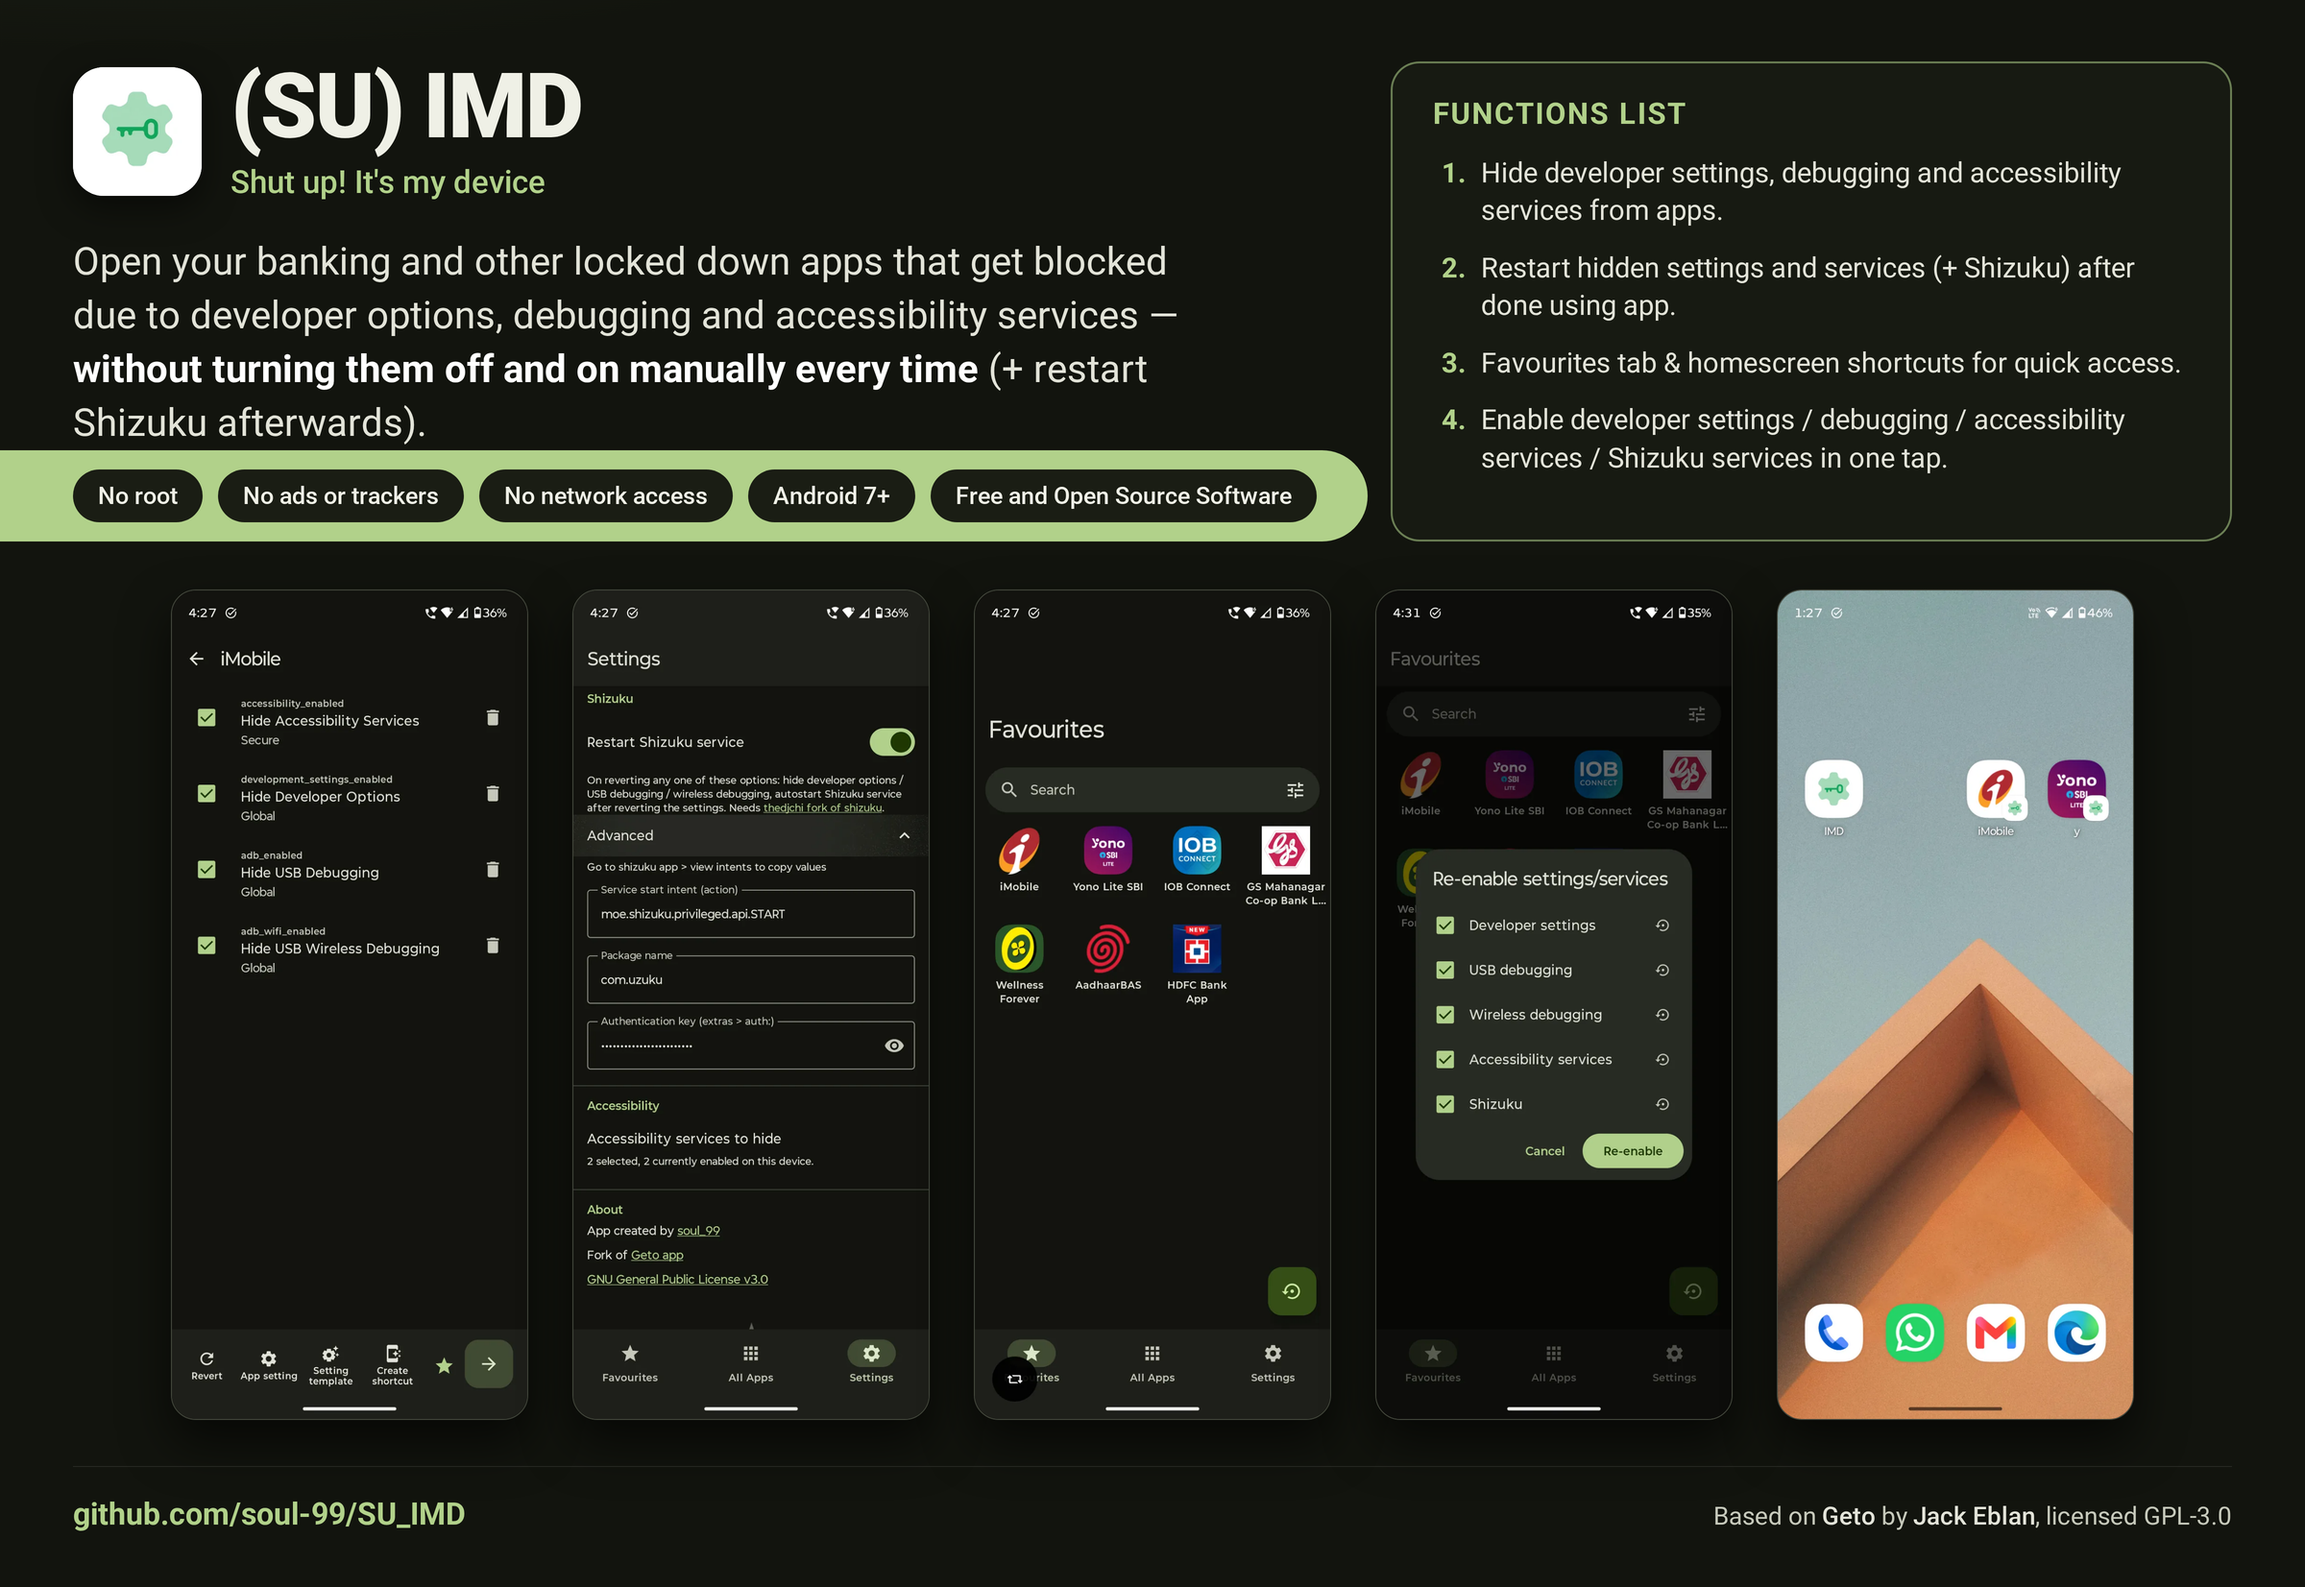
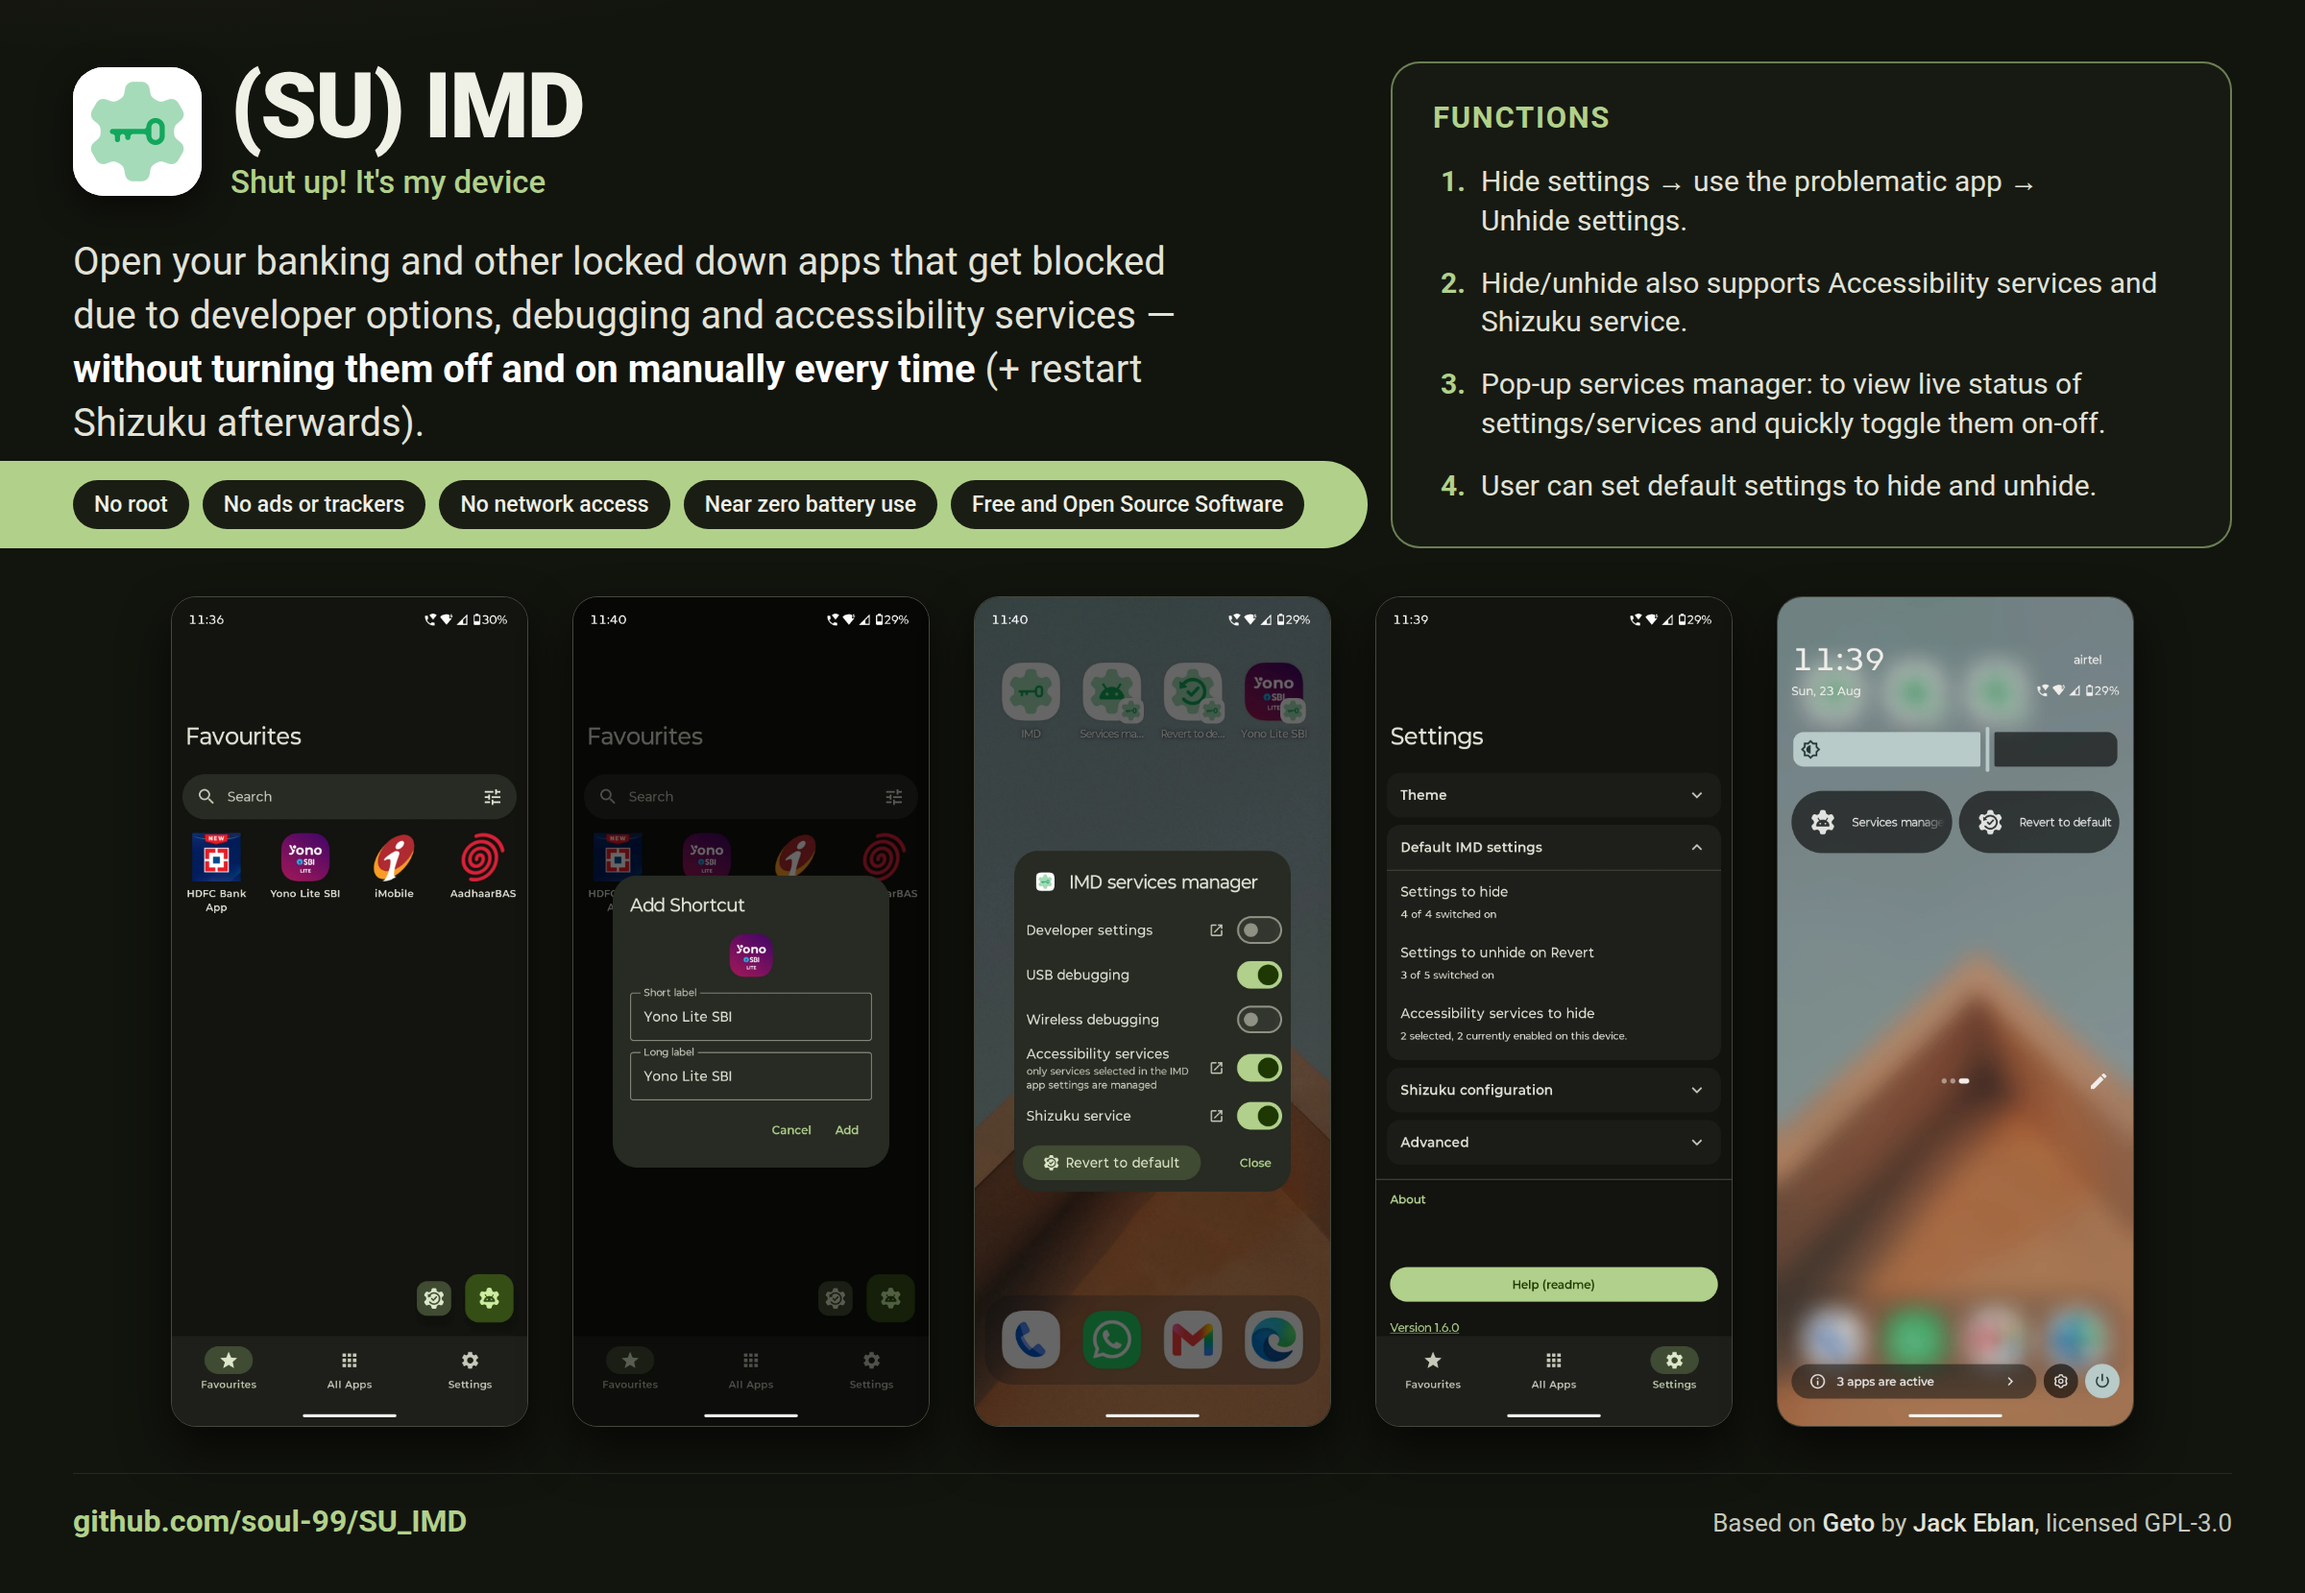
readme update

diff --git a/README.md b/README.md
@@ -8,6 +8,8 @@ Open banking and other locked-down apps without turning developer options, USB d
 
 Some apps refuse to run — or quietly disable parts of themselves — when they detect developer options, an ADB connection or an active accessibility service. The usual workaround is to go and switch those things off before opening the app and switch them back on afterwards, every time. IMD does that for you: pick an app, say which settings should change while it runs, and launch it from here. The settings are applied, the app opens, and an ongoing notification with a **Revert** action puts your device back the way it was.
 
+The **IMD services manager** is the other half of that: one dialog showing the live state of developer settings, USB debugging, wireless debugging, your managed accessibility services and the Shizuku service, with a switch on each and a **Revert to default** button at the bottom. It opens from a Quick Settings tile, a homescreen shortcut or the Favourites tab — without the app itself having to be open — which is what you reach for when a banking app has just refused to start and you do not want to go hunting through Android's settings to find out why.
+
 It is a fork of [Geto](https://github.com/JackEblan/Geto), rebuilt around the parts that did not survive real use — Shizuku dying with USB debugging, accessibility services that were listed but never actually stopped, and a quick re-enable settings button in app.
 
 - **Package:** `com.soul_99.suIMD` — installs alongside stock Geto, both can coexist
@@ -34,32 +36,17 @@ adb shell pm grant com.soul_99.suIMD android.permission.WRITE_SECURE_SETTINGS
 or, with no PC, tap **Use Shizuku** on the first-run screen and it runs that command for you. The screen also shows the command with a copy button and re-checks itself when you come back, so you never have to type it twice. The grant survives reboots but not a reinstall.
 
 <p>
-  <img src="docs/screenshots/poster.png" width="100%" alt="Poster: what IMD does, with screenshots of the app">
-</p>
-
-<p>
-  <img src="docs/screenshots/poster1.5.png" width="100%" alt="Poster: the v1.5 update, with screenshots of the services manager, Quick Settings tiles, Shizuku settings, Revert to default configuration and the setup help page">
+  <img src="docs/screenshots/poster.png" width="100%" alt="Poster: what IMD does, with screenshots of the Favourites tab, creating a shortcut, the IMD services manager, the settings screen and the Quick Settings tiles">
 </p>
 
 ## Functions
 
-### From the original Geto
-
-- Per-app profiles of Android **system**, **secure** and **global** settings.
-- A searchable, sortable list of every installed apps.
-- A browsable copy of the device's current settings
-- Launch app from inside IMD or shortcut with its profile applied, and an ongoing notification carrying the **Revert** action.
-- A settings-observer foreground service.
-
 ### Added in this fork
-
-v1.1 is the last version published here, so updating from it brings everything below.
 
 #### v1.6
 
-* **New ‘Settings to hide’ function**: one list used for every app — tick what should be switched off whenever any app is launched. An app you have never configured now opens correctly, so there is nothing to set up before you can start using the app. All four are ticked to begin with.
-* **Launch from either tab**: a tap launches the app from All apps as well as Favourites.
-* **Long press on an app** creates a homescreen shortcut for it, or opens that app’s own settings template if you use the Memory function.
+* Default configuration options for both **Settings to hide** & **Settings to unhide**.
+* short press opens app, Long press creates shortcut.
 * **IMD services manager**: shows the IMD app icon, and long pressing ‘Revert to default’ opens its configuration. The Accessibility services toggle greys out when no services are selected in IMD settings.
 * **Settings reorganised**: ‘App functions’ is now ‘Default IMD settings’, opens expanded, and holds ‘Settings to hide’ and ‘Settings to unhide on Revert’. Notification function moved to Advanced.
 * **Shortcut labels autofilled** with the app’s own name.
@@ -95,6 +82,14 @@ v1.1 is the last version published here, so updating from it brings everything b
 - Matching shortcut icons to android adaptive icon
 - A new better initialisation screen with Shizuku support to grant permissions
 - Material Design search box
+
+### From the original Geto
+
+- Per-app profiles of Android **system**, **secure** and **global** settings.
+- A searchable, sortable list of every installed apps.
+- A browsable copy of the device's current settings
+- Launch app from inside IMD or shortcut with its profile applied, and an ongoing notification carrying the **Revert** action.
+- A settings-observer foreground service.
 
 ## Source
 
